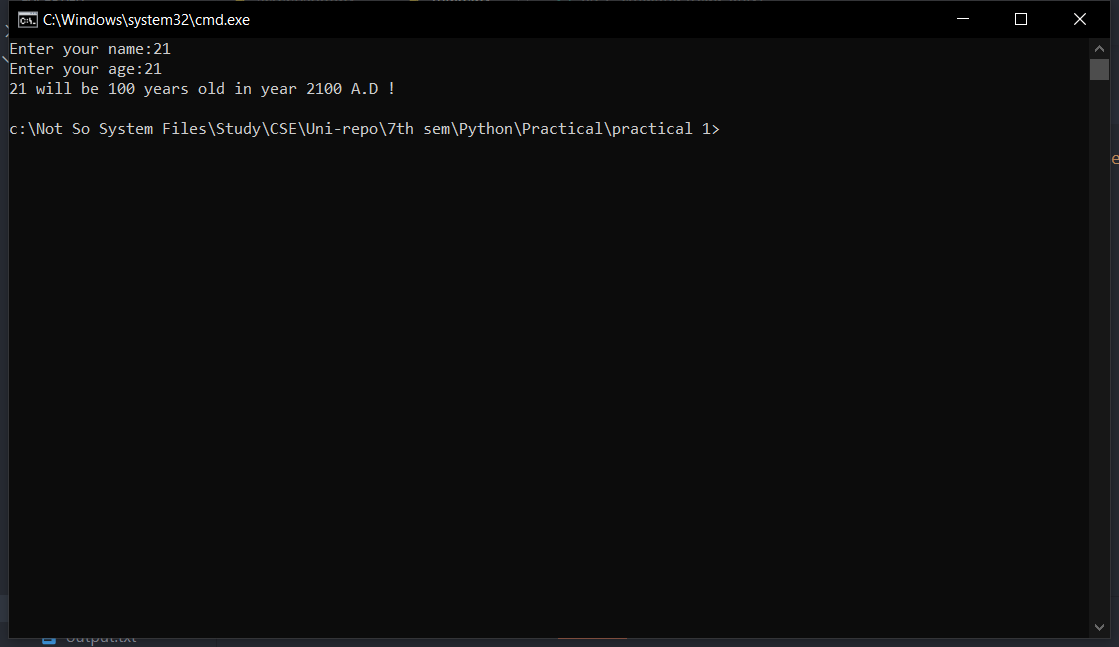
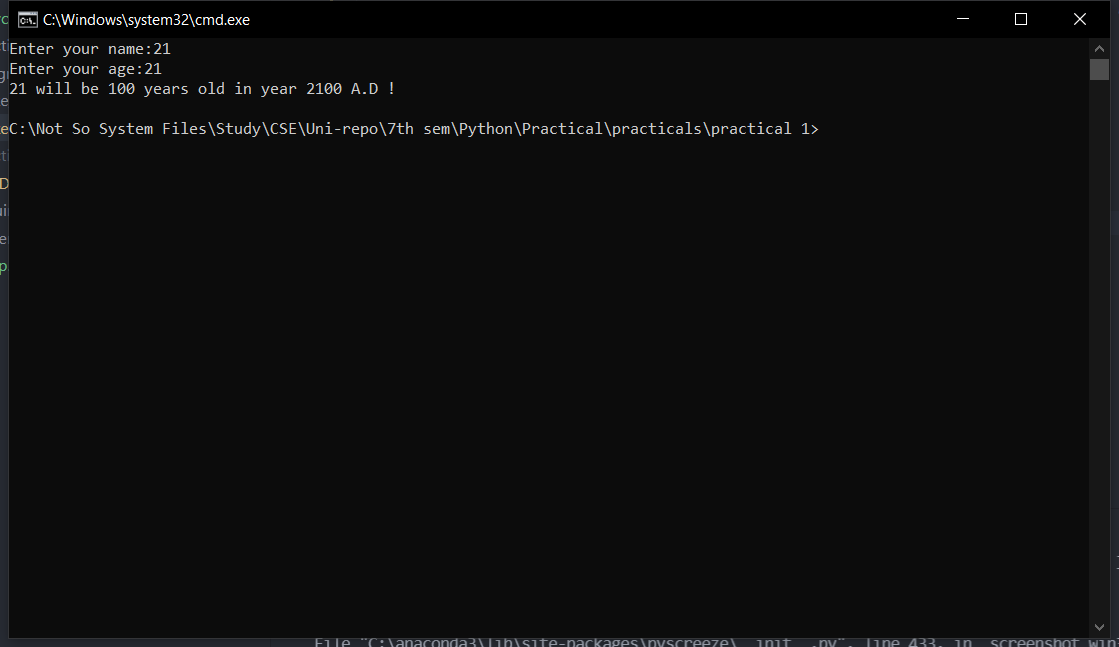
👷♂ FIX: files paths configured

diff --git a/make.py b/make.py
@@ -5,8 +5,11 @@ import subprocess
 from tqdm import tqdm
 from screenshot import getScreenshot
 
-ROOT_DIR = os.path.dirname(__file__)
-os.chdir(ROOT_DIR)
+PRACTICAL_DIR_NAME = "practicals"
+
+PRACTICAL_DIR = os.path.join(os.getcwd(), PRACTICAL_DIR_NAME) 
+
+os.chdir(PRACTICAL_DIR)
 
 logging.basicConfig(filename="practicalfiles.log", level=logging.INFO)
 
@@ -21,7 +24,7 @@ PRACTICAL_PREFIX = "practical"
 # get folder names in a directory
 practical_dirs = [
     name
-    for name in os.listdir("./practicals/")
+    for name in os.listdir(".")
     if (os.path.isdir(name) and name.find(PRACTICAL_PREFIX) != -1)
 ]
 
@@ -35,12 +38,13 @@ def get_file_names(dir_name):
 
 
 practical_dirs = sorted(practical_dirs, key=len)
+print(practical_dirs)
 
-for practical_dir in tqdm(practical_dirs, desc="overall progress", position=0):
-    files = get_file_names(practical_dir)
-    os.chdir(practical_dir) # change to practical's directory
+for practical_dir_name in tqdm(practical_dirs, desc="overall progress", position=0):
+    files = get_file_names(practical_dir_name)
+    os.chdir(practical_dir_name) # change to practical's directory
 
-    for file in tqdm(files, desc=f"{practical_dir} progress", position=1, leave=False):
+    for file in tqdm(files, desc=f"{practical_dir_name} progress", position=1, leave=False):
         # do shit here
         pyprocess = subprocess.check_call(
             ["start", "cmd", "/wait", "/k", "python", file],
@@ -49,12 +53,12 @@ for practical_dir in tqdm(practical_dirs, desc="overall progress", position=0):
         )
         time.sleep(1)  # for letting subprocess atleast spawn
         getScreenshot(
-            working_directory=os.path.join(ROOT_DIR, practical_dir),
+            working_directory=os.path.join(PRACTICAL_DIR, practical_dir_name),
             img_filename=file.split(".")[0],
         )
         
-    os.chdir(ROOT_DIR) # go back to main directory
-    logging.info(f"All screenshots of {practical_dir} are done.")
+    os.chdir(PRACTICAL_DIR) # go back to main directory
+    logging.info(f"All screenshots of {practical_dir_name} are done.")
 
 
 print("Finished screenshotting all the files!")

diff --git a/temp.py b/temp.py
@@ -1,0 +1,10 @@
+import os
+import time
+import logging
+import subprocess
+from tqdm import tqdm
+from screenshot import getScreenshot
+
+ROOT_DIR = os.path.dirname(__file__)
+os.chdir(ROOT_DIR)
+print(os.listdir("./practicals"))

diff --git a/README.md b/README.md
@@ -10,6 +10,11 @@ automatic screenshots and logging of practical files.
 - [ ] run `make.py` to create the screenshots and log files. Screenshots are saved in respective folders.
 - [ ] check `practicalfiles.log` file if error persist.
 
+## TODO
+
+- Automate making word files.
+- Improve synchronization of py runtime call in `screenshot.py`.
+
 ## empty file struture
 
 ```bash
